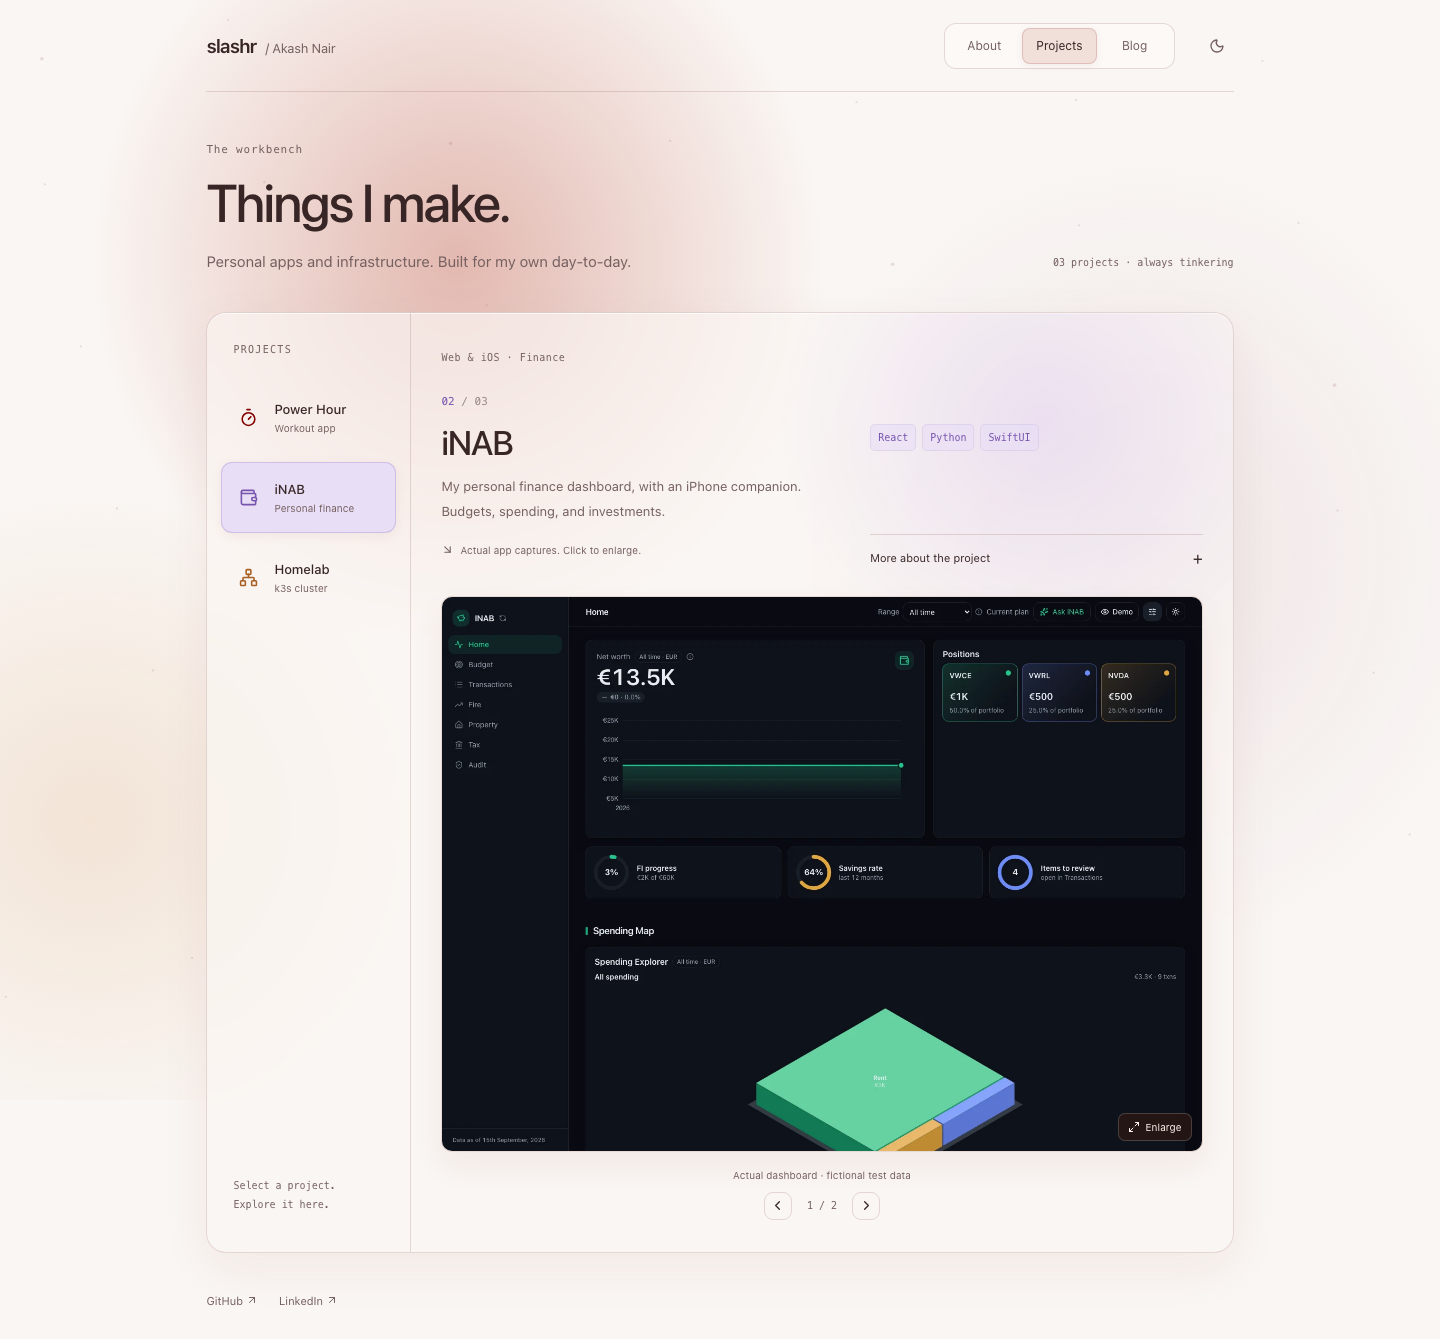
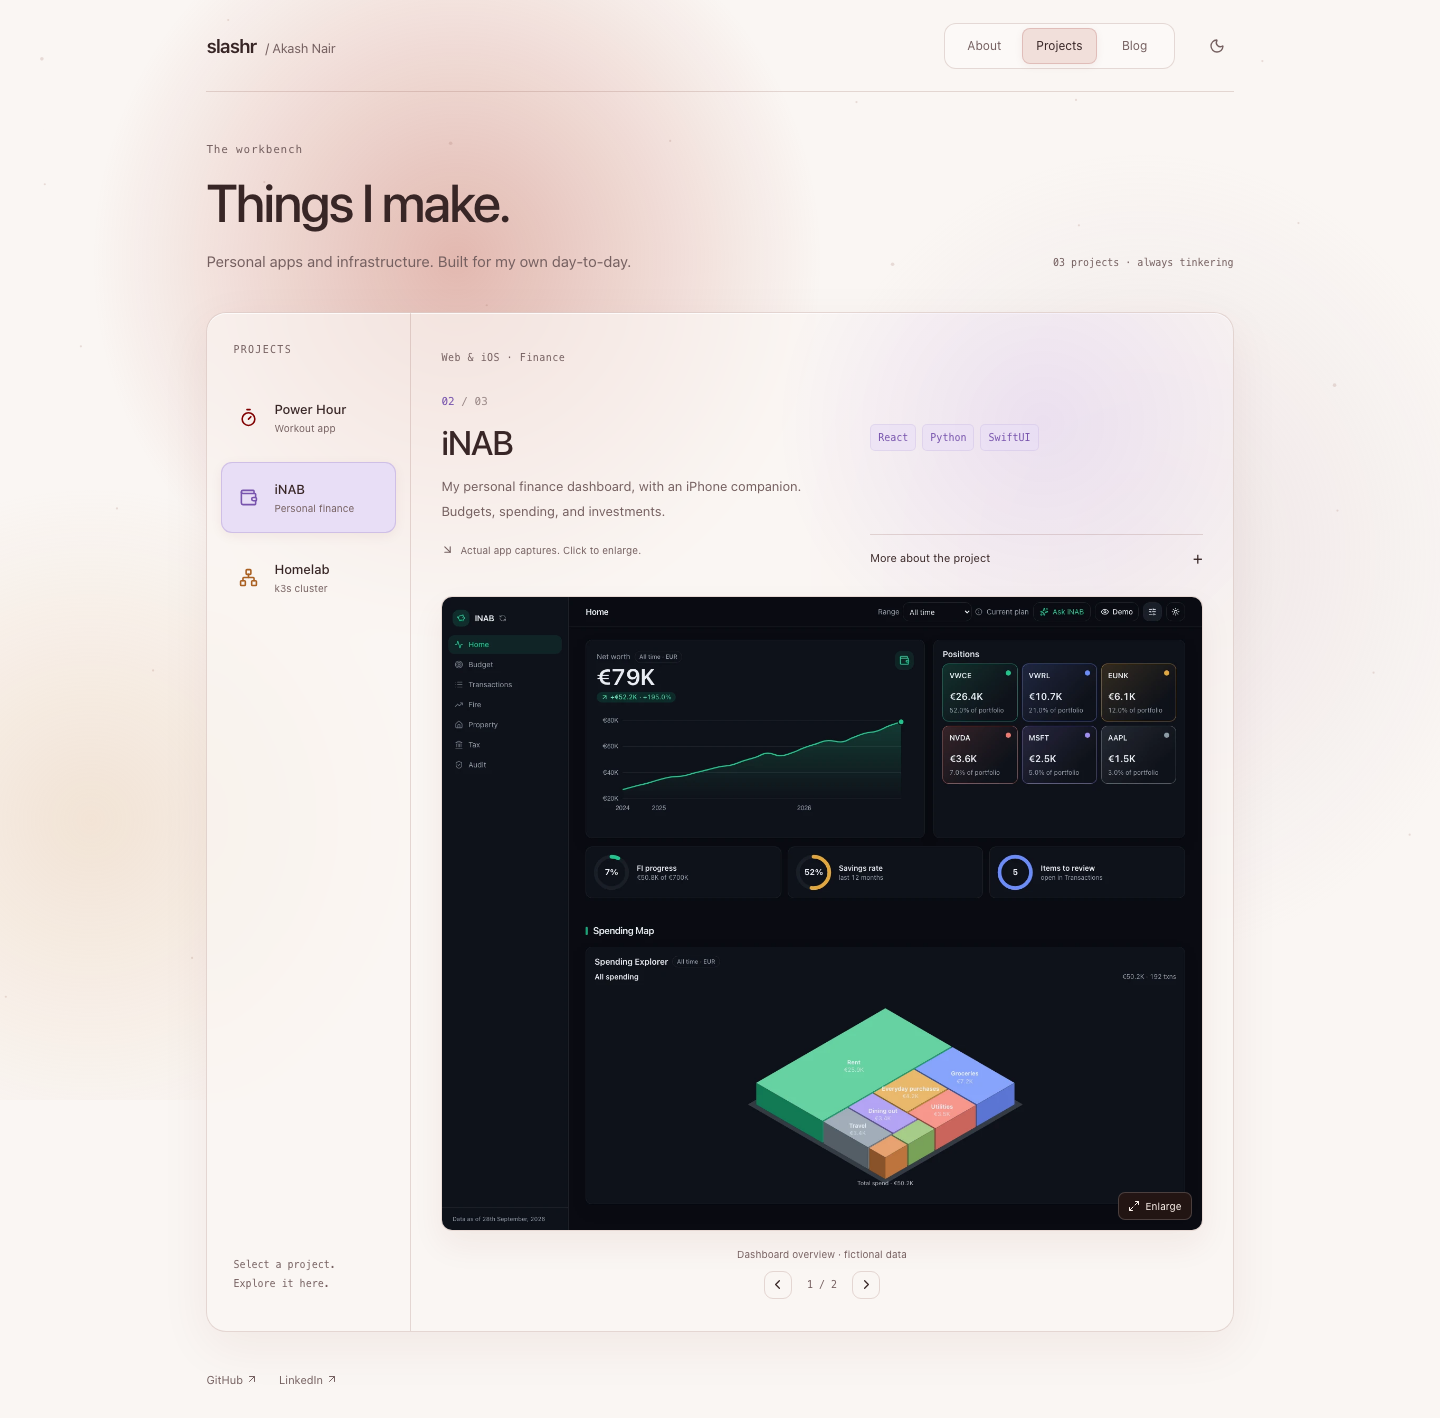
Refresh iNAB captures with a varied fictional financial history

diff --git a/lib/projects.ts b/lib/projects.ts
@@ -63,17 +63,17 @@ export const projects: Project[] = [
     screenshots: [
       {
         src: "/projects/inab-home.webp",
-        alt: "The actual iNAB dashboard showing its overview and charts with fictional test data",
-        caption: "Actual dashboard · fictional test data",
+        alt: "The actual iNAB dashboard with a two-year net worth trend, investment holdings, and a spending map using fictional data",
+        caption: "Dashboard overview · fictional data",
         width: 1440,
-        height: 1050,
+        height: 1200,
       },
       {
         src: "/projects/inab-budget.webp",
-        alt: "The actual iNAB budget workspace rendered with fictional test data",
-        caption: "Budget workspace · fictional test data",
+        alt: "The actual iNAB budget workspace showing spending against a plan and cash flow by pay period using fictional data",
+        caption: "Budget workspace · fictional data",
         width: 1440,
-        height: 1050,
+        height: 1200,
       },
     ],
   },

diff --git a/docs/screenshots.md b/docs/screenshots.md
@@ -31,8 +31,20 @@ folder from the local iNAB checkout at
 `8ea98caa25f74c251874a88fa97db4e84e037b6d`.
 
 `dashboard-app/scripts/build-api-fixture.py` creates fictional rows in a temporary
-SQLite database and projects them through the app's finance API contract. The
-browser's dashboard requests were intercepted and fulfilled with that synthetic
+SQLite database and projects them through the app's finance API contract. For
+the portfolio captures, its seed rows were replaced in a temporary copy with
+24 fictional months (October 2024–September 2026): varied salary and spending,
+regular investment contributions, gains and drawdowns, six holdings, and
+matching balances. Net worth is the sum of cash, credit and investments in each
+month; monthly cash flow agrees with the fictional transaction ledger.
+
+The refreshed 1440 × 1200 captures were taken on 2026-10-18. Home shows the
+all-time net worth trend, positions, progress indicators and spending map;
+Budget shows the plan comparison and cash flow by pay period. The actual
+frontend rendered every chart and number; no interface text or chart pixels
+were edited in the images.
+
+The browser's dashboard requests were intercepted and fulfilled with that synthetic
 payload; optional API calls were answered as unconfigured, and nonlocal requests
 were blocked. No raw statements, private database, or real dashboard payload was
 loaded. The captures show the Home and Budget workspaces with this sample data.
